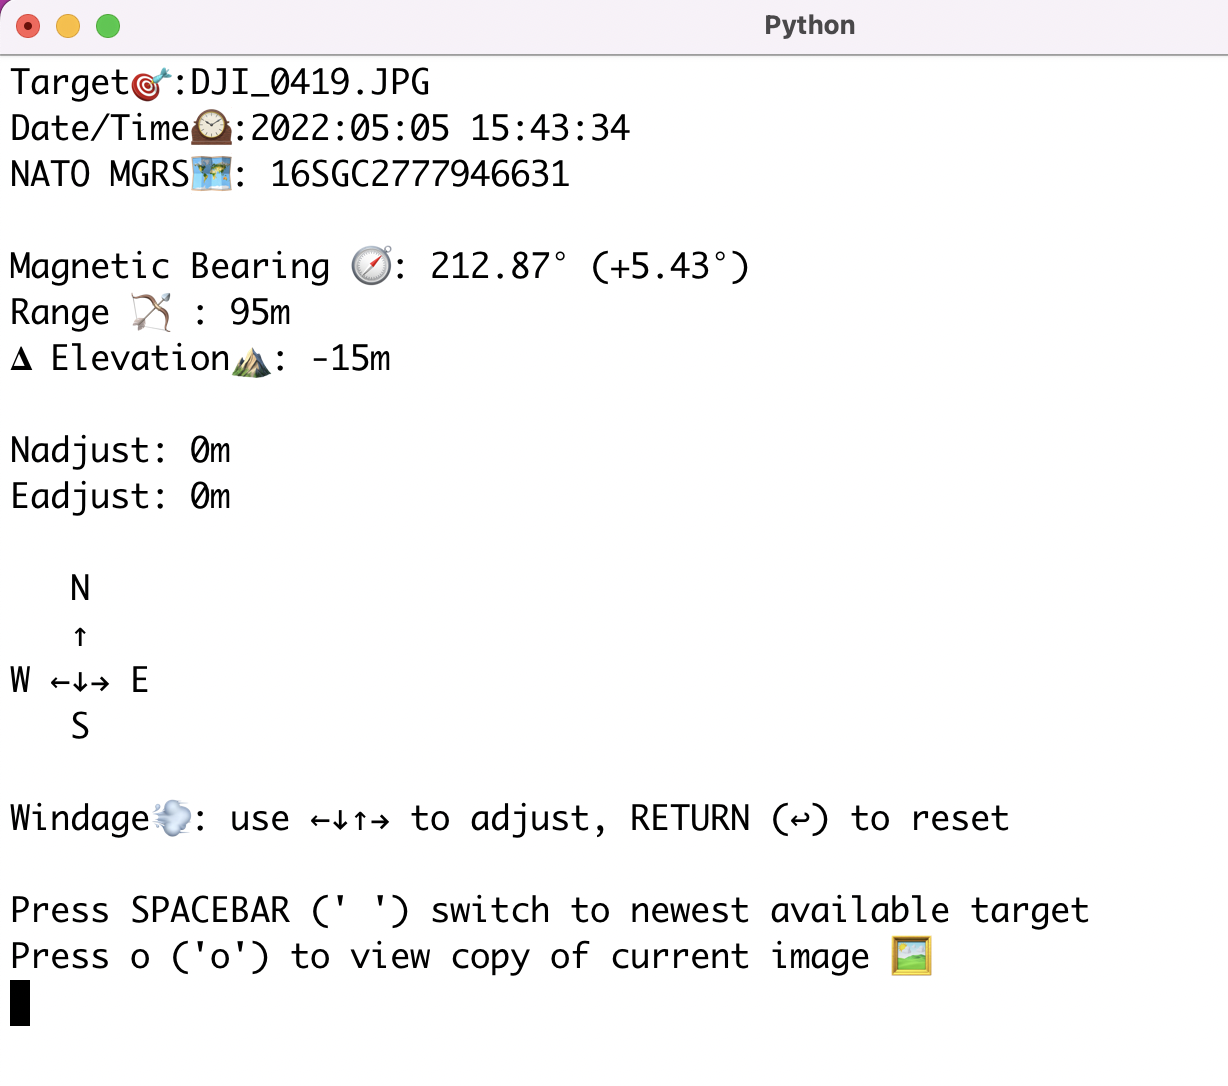
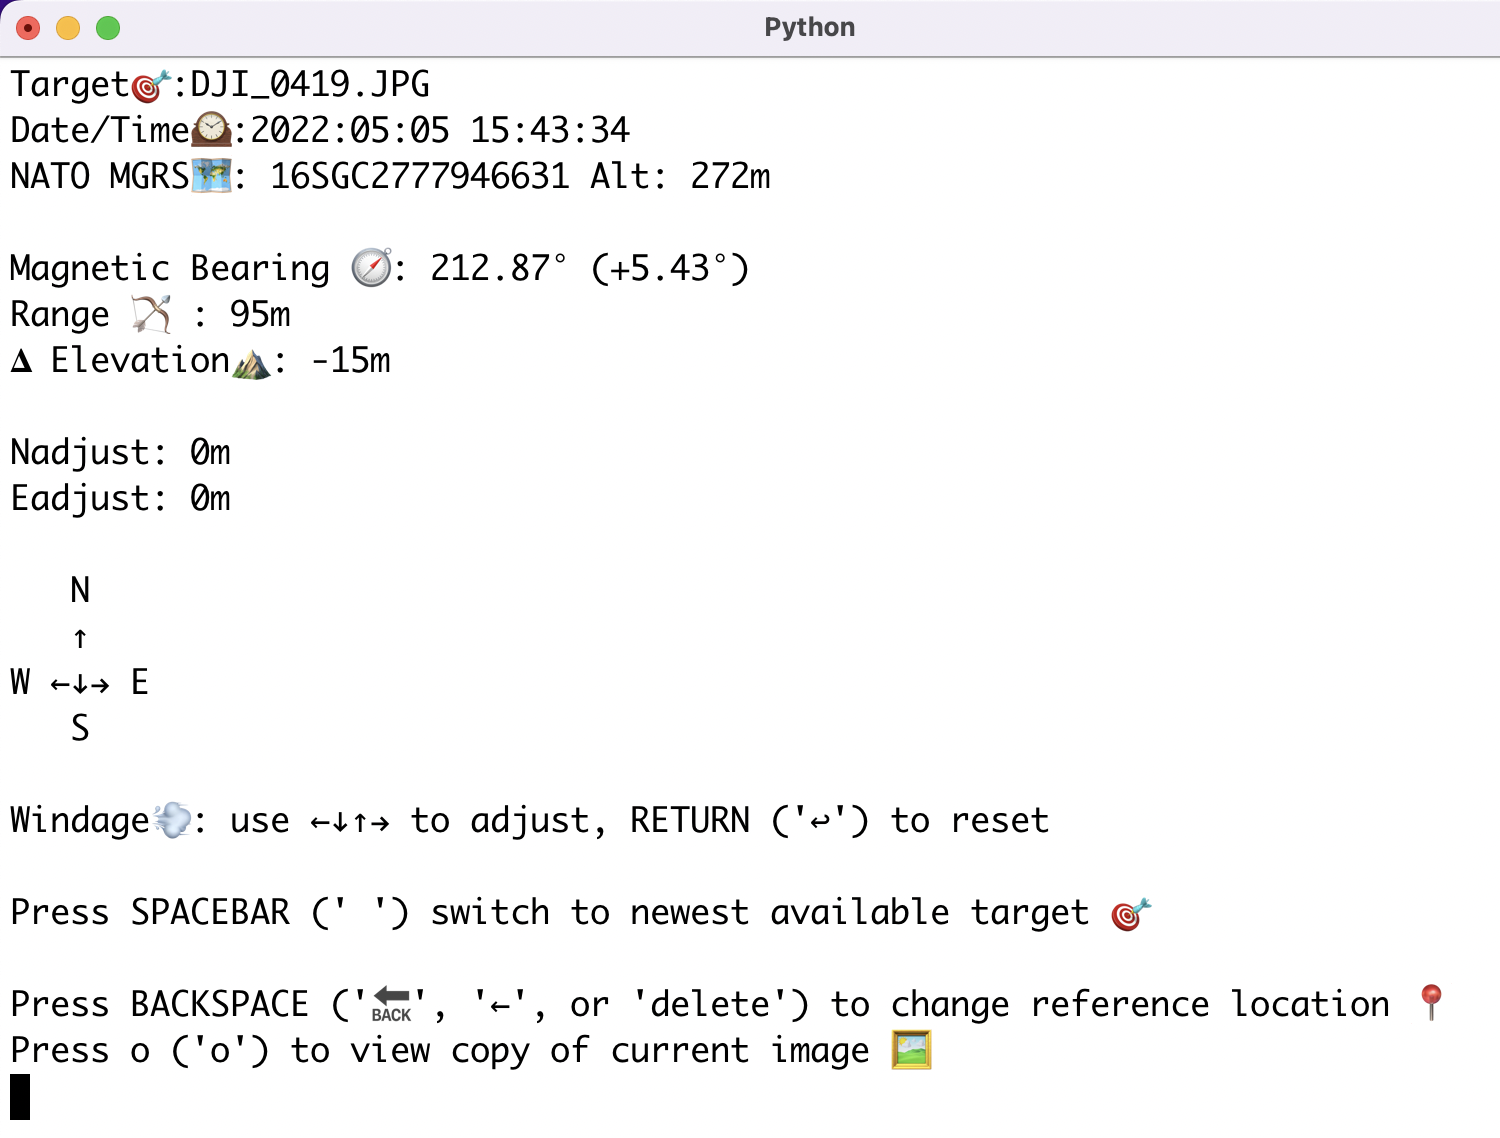
find_me_mode.md update documentation add location adjustment feature

diff --git a/find_me_mode.md b/find_me_mode.md
@@ -42,7 +42,7 @@ A few seconds later, the following output will appear on the terminal interface:
 
 `Date/Time🕰` displays the value of the EXIF `DateTime` flag of the target's image (usually in local time)
 
-`NATO MGRS🗺 ` displays the target's [NATO Military Grid Reference System (MGRS)](https://en.wikipedia.org/wiki/Military_Grid_Reference_System) coordinates
+`NATO MGRS🗺 ` displays the target's [NATO Military Grid Reference System (MGRS)](https://en.wikipedia.org/wiki/Military_Grid_Reference_System) coordinates, `Alt: ` displays its altitude
 
 `Bearing` displays the true heading from the user towards the target (in degrees)
 
@@ -64,11 +64,15 @@ Windage adjustments do not affect the calculated altitude of a target.
 
 ### prosecuting multiple targets
 
-find_me_mode will find the newest available image to use as a target after each target is prosecuted. The user may press the SPACEBAR (' ') key to mark the current target as prosecuted and switch to the newest available target. By default, windage adjustments will persist to the display of the next target. The RETURN key (↩) may be used to reset `Nadjust` and `Eadjust` windage adjustments to 0m each.
+find_me_mode will find the newest available image to use as a target after each target is prosecuted. The user may press the SPACEBAR (' ') key to mark the current target as prosecuted and switch to the newest available target. By default, windage adjustments will persist to the display of the next target. The RETURN key ('↩') may be used to reset `Nadjust` and `Eadjust` windage adjustments to 0m each.
 
 ### view current target
 
 find_me_mode allows the user to view the image of the current target. The user may press the o ('o') key to open a temporary copy of the target's image. The resulting image view window may be closed by the user at the time of their choosing
+
+### adjust fixed location
+
+find_me_mode allows the fixed reference location to be updated during software operation if the user has moved to a new location. The user may press the BACKSPACE ('🔙', '←', or 'delete') key to initiate input for a new location. Next, the user may provide a NATO MGRS, or immediately press the RETURN key ('↩') to input a latitude and longitude pair. The user may next provide the altitude of their new location, or immediately press the RETURN key ('↩') to use the terrain Altitude value of their new lat/lon
 
 ### Autel sensor data warning
 Numerous in-accuracies have been observed in the sensor metadata of images taken by drones made by Autel Robotics. In many cases, this may result in in-accurate target resolutions. To inform the user of possible incorrect target resolutions, a prominent warning will appear in the output if the image filename contains `MAX`, as is the case by default for images taken by the Autel Evo II. At present only the filename is used to make this check and not the EXIF Make tag value
